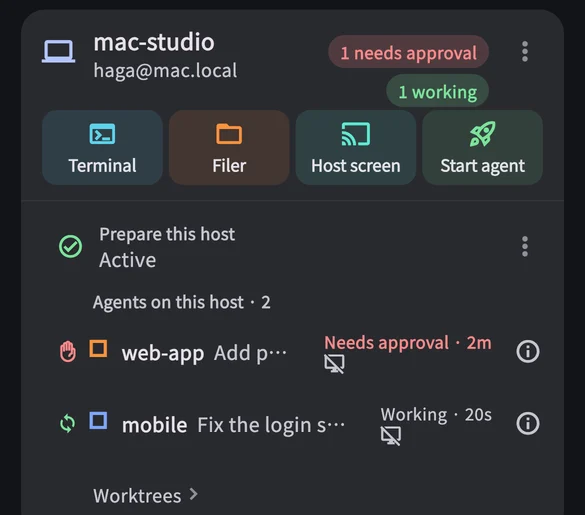
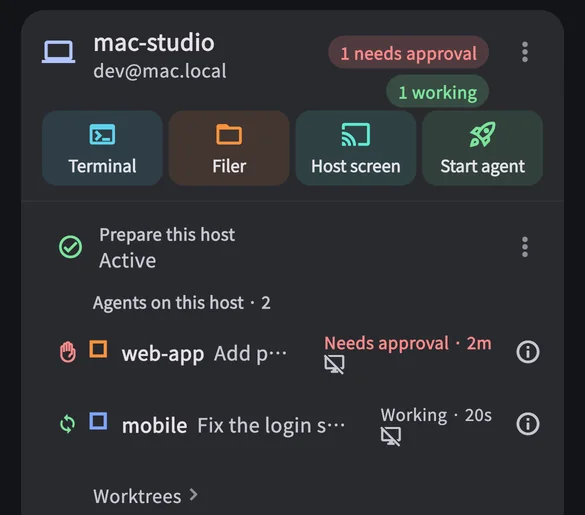
Desktop sales page: real SSH Term Desktop screens instead of HTML mock-ups (#25)
The Mac windows (hero, use case 01 list, use case 03 filer) are now the
app's own window, rendered offscreen with a fake stagent and a fake SSH
host (user dev, host build-linux), en and ja. Narrow screens get the
chat pane only, as the mock-up did. The phone host card is re-rendered
from the mobile store shots with the user dev instead of the real one.
The caption now says the screens are the apps' own with sample data.
Mock-up-only CSS removed.

diff --git a/public/ja/desktop.html b/public/ja/desktop.html
@@ -46,33 +46,14 @@
         <p class="cta-meta">macOS 13 以降（Apple Silicon / Intel） · スマホ版なしでも単体で利用可 · 続けるなら <b>¥1,500</b> 買い切り（月額 0 円）</p>
       </div>
 
-      <div class="devices" role="img" aria-label="Mac の SSH Term Desktop とスマホ版 SSH Term で、同じ Claude Code のセッションを開いているイメージ">
+      <div class="devices" role="img" aria-label="Mac の SSH Term Desktop とスマホ版 SSH Term で、同じ Claude Code のセッションを開いている画面">
         <div class="device-mac">
           <p class="device-label"><b>Mac</b> · SSH Term Desktop</p>
           <div class="mac">
-            <div class="mac-bar"><i></i><i></i><i></i><span>SSH Term Desktop</span><span class="mac-toast">通知: mobile が承認待ち</span></div>
-            <div class="mac-body">
-              <div class="mac-side">
-                <p class="mac-host">手元のマシン</p>
-                <p class="mac-row"><span class="dot wait"></span>mobile<small class="wait">承認待ち 2分</small></p>
-                <p class="mac-row is-on"><span class="dot run"></span>web-app<small>作業中</small></p>
-                <p class="mac-host">build-linux（SSH）</p>
-                <p class="mac-row"><span class="dot run"></span>infra<small>作業中</small></p>
-                <p class="mac-foot"><span>Claude 5時間</span><b>42%</b></p>
-              </div>
-              <div class="mac-pane">
-                <p class="box">✻ Welcome to Claude Code!<br><span class="dim">cwd: ~/dev/web-app</span></p>
-                <p>&gt; 決済 API のテストを書いて、通るまで直して</p>
-                <p>● 決済 API の構成を読みます。</p>
-                <p><span class="ok">●</span> Read(src/payment/api.ts)</p>
-                <p class="dim">  ⎿ Read 182 lines</p>
-                <p>● テストを 12 件書きました。実行します。</p>
-                <p><span class="ok">●</span> Write(test/payment/api.test.ts)</p>
-                <p><span class="ok">●</span> Bash(npm test -- payment)</p>
-                <p class="dim">  ⎿ Tests: 2 failed, 10 passed</p>
-                <p class="busy">✻ テストの失敗を直しています…</p>
-              </div>
-            </div>
+            <picture>
+              <source media="(max-width: 899px)" srcset="/desktop/img/mac-chat-pane-ja.webp" width="1284" height="1200">
+              <img src="/desktop/img/mac-chat-ja.webp" width="1440" height="900" alt="">
+            </picture>
           </div>
         </div>
         <p class="same" aria-hidden="true">↔ 同じセッション</p>
@@ -83,7 +64,7 @@
           </div>
         </div>
       </div>
-      <p class="shot-note">画面はイメージです（スマホの画面はスマホ版の実際の表示をもとに作成）。</p>
+      <p class="shot-note">画面はアプリの実際の表示です（データは見本）。</p>
     </div>
   </section>
 
@@ -330,16 +311,7 @@
             <span class="case-who">並列で AI を回すとき</span>
           </div>
           <figure class="case-media">
-            <div class="mac" role="img" aria-label="SSH Term Desktop の一覧。承認待ちの web-app が先頭に表示されているイメージ">
-              <div class="mac-bar"><i></i><i></i><i></i><span>SSH Term Desktop</span></div>
-              <div class="mac-side">
-                <p class="mac-host">mac-studio</p>
-                <p class="mac-row is-on"><span class="dot wait"></span>web-app<small class="wait">承認待ち 2分</small></p>
-                <p class="mac-row"><span class="dot run"></span>mobile<small>作業中</small></p>
-                <p class="mac-host">build-linux</p>
-                <p class="mac-row"><span class="dot run"></span>infra<small>作業中</small></p>
-              </div>
-            </div>
+            <img src="/desktop/img/mac-list-ja.webp" width="636" height="420" alt="SSH Term Desktop のステータス別の一覧。承認待ちの mobile が先頭に、作業中の web-app と infra がその下に並ぶ画面" loading="lazy">
           </figure>
           <h3 class="case-outcome">承認待ちで 30&nbsp;分止まる<wbr>事故が<wbr>なくなる</h3>
           <div class="case-ba">
@@ -369,16 +341,7 @@
             <span class="case-who">リモートサーバーの編集</span>
           </div>
           <figure class="case-media">
-            <div class="mac" role="img" aria-label="端末のファイルリンクから内蔵 SFTP ファイラとコードエディタを開くイメージ">
-              <div class="mac-bar"><i></i><i></i><i></i><span>build-linux · ファイラ</span></div>
-              <div class="mac-pane">
-                <p><span class="ok">●</span> Updated src/payment/api.ts:42</p>
-                <p class="dim">  → クリックで内蔵ファイラ＆エディタへ</p>
-                <p>&nbsp;</p>
-                <p class="box">src/payment/api.ts（SFTP · 保存可）<br><span class="ok">+ 42: return verifySignature(payload);</span></p>
-                <p class="dim">Cmd+S でリモートへそのまま保存</p>
-              </div>
-            </div>
+            <img src="/desktop/img/mac-filer-ja.webp" width="1284" height="544" alt="build-linux の内蔵ファイラで、src/payment/api.ts を SFTP でコードエディタに開き、42 行目を示した画面" loading="lazy">
           </figure>
           <h3 class="case-outcome">承認から<wbr>コード確認・微調整まで 1&nbsp;ウィンドウで<wbr>完結</h3>
           <div class="case-ba">

diff --git a/public/desktop.html b/public/desktop.html
@@ -50,29 +50,10 @@
         <div class="device-mac">
           <p class="device-label"><b>Mac</b> · SSH Term Desktop</p>
           <div class="mac">
-            <div class="mac-bar"><i></i><i></i><i></i><span>SSH Term Desktop</span><span class="mac-toast">Alert: mobile needs approval</span></div>
-            <div class="mac-body">
-              <div class="mac-side">
-                <p class="mac-host">Local machine</p>
-                <p class="mac-row"><span class="dot wait"></span>mobile<small class="wait">Approval · 2m</small></p>
-                <p class="mac-row is-on"><span class="dot run"></span>web-app<small>Working</small></p>
-                <p class="mac-host">build-linux (SSH)</p>
-                <p class="mac-row"><span class="dot run"></span>infra<small>Working</small></p>
-                <p class="mac-foot"><span>Claude 5h</span><b>42%</b></p>
-              </div>
-              <div class="mac-pane">
-                <p class="box">✻ Welcome to Claude Code!<br><span class="dim">cwd: ~/dev/web-app</span></p>
-                <p>&gt; Write tests for the payment API and fix it until they all pass</p>
-                <p>● I'll read how the payment API is laid out.</p>
-                <p><span class="ok">●</span> Read(src/payment/api.ts)</p>
-                <p class="dim">  ⎿ Read 182 lines</p>
-                <p>● Wrote 12 tests. Running them now.</p>
-                <p><span class="ok">●</span> Write(test/payment/api.test.ts)</p>
-                <p><span class="ok">●</span> Bash(npm test -- payment)</p>
-                <p class="dim">  ⎿ Tests: 2 failed, 10 passed</p>
-                <p class="busy">✻ Fixing the failing tests…</p>
-              </div>
-            </div>
+            <picture>
+              <source media="(max-width: 899px)" srcset="/desktop/img/mac-chat-pane-en.webp" width="1284" height="1200">
+              <img src="/desktop/img/mac-chat-en.webp" width="1440" height="900" alt="">
+            </picture>
           </div>
         </div>
         <p class="same" aria-hidden="true">↔ Same session</p>
@@ -83,7 +64,7 @@
           </div>
         </div>
       </div>
-      <p class="shot-note">Screens are illustrative (the phone screen is captured from the mobile app with sample data).</p>
+      <p class="shot-note">Screens are from the apps themselves, with sample data.</p>
     </div>
   </section>
 
@@ -330,16 +311,7 @@
             <span class="case-who">Parallel AI tasks</span>
           </div>
           <figure class="case-media">
-            <div class="mac" role="img" aria-label="SSH Term Desktop list showing web-app needing approval at the top while mobile and infra keep working">
-              <div class="mac-bar"><i></i><i></i><i></i><span>SSH Term Desktop</span></div>
-              <div class="mac-side">
-                <p class="mac-host">mac-studio</p>
-                <p class="mac-row is-on"><span class="dot wait"></span>web-app<small class="wait">Approval · 2m</small></p>
-                <p class="mac-row"><span class="dot run"></span>mobile<small>Working</small></p>
-                <p class="mac-host">build-linux</p>
-                <p class="mac-row"><span class="dot run"></span>infra<small>Working</small></p>
-              </div>
-            </div>
+            <img src="/desktop/img/mac-list-en.webp" width="636" height="420" alt="SSH Term Desktop list grouped by status: mobile needing approval at the top, web-app and infra working below" loading="lazy">
           </figure>
           <h3 class="case-outcome">Zero half-hour stalls waiting for approval</h3>
           <div class="case-ba">
@@ -369,16 +341,7 @@
             <span class="case-who">Reviewing remote edits</span>
           </div>
           <figure class="case-media">
-            <div class="mac" role="img" aria-label="Clicking a file link in the terminal to inspect and edit it in the built-in SFTP filer">
-              <div class="mac-bar"><i></i><i></i><i></i><span>build-linux · Filer</span></div>
-              <div class="mac-pane">
-                <p><span class="ok">●</span> Updated src/payment/api.ts:42</p>
-                <p class="dim">  → Click to open in built-in filer &amp; editor</p>
-                <p>&nbsp;</p>
-                <p class="box">src/payment/api.ts (SFTP · editable)<br><span class="ok">+ 42: return verifySignature(payload);</span></p>
-                <p class="dim">Cmd+S saves straight back over SFTP</p>
-              </div>
-            </div>
+            <img src="/desktop/img/mac-filer-en.webp" width="1284" height="544" alt="The built-in filer on build-linux with src/payment/api.ts open in the code editor over SFTP, line 42 highlighted" loading="lazy">
           </figure>
           <h3 class="case-outcome">Approve, inspect, and tweak in one window</h3>
           <div class="case-ba">

diff --git a/public/sales.css b/public/sales.css
@@ -320,74 +320,13 @@ h3 { font-size: 19px; line-height: 1.48; }
   border: 1px solid var(--term-edge);
   border-radius: 12px;
   background: var(--term);
-  color: var(--term-text);
-  font: 400 13px/1.6 var(--mono);
   box-shadow: 0 16px 40px rgb(0 0 0 / 0.35);
 }
-.mac-bar {
-  display: flex;
-  align-items: center;
-  gap: 8px;
-  height: 34px;
-  padding: 0 12px;
-  background: #171a23;
-  border-bottom: 1px solid var(--term-line);
-  color: var(--muted);
-  font: 600 12px/1 var(--sans);
-}
-.mac-bar i { width: 10px; height: 10px; border-radius: 50%; background: #454a57; }
-.mac-bar span { margin-left: 8px; }
-.mac-bar .mac-toast {
-  margin-left: auto;
-  padding: 3px 9px;
-  border-radius: 999px;
-  background: var(--warn-soft);
-  border: 1px solid rgb(240 122 106 / 0.4);
-  color: var(--warn);
-  font: 700 11px/1.2 var(--sans);
-  white-space: nowrap;
-}
-.mac-body {
-  display: grid;
-  grid-template-columns: 205px minmax(0, 1fr);
-  min-height: 320px;
-}
-.mac-side {
-  display: flex;
-  flex-direction: column;
-  padding: 12px 0;
-  background: #181c25;
-  border-right: 1px solid var(--term-line);
-  font-family: var(--sans);
-  font-size: 12px;
-  line-height: 1.45;
-}
-.mac-host { padding: 8px 14px 4px; color: var(--muted); font-weight: 700; font-size: 11px; letter-spacing: 0.03em; }
-.mac-row { display: flex; align-items: center; gap: 8px; padding: 7px 14px; }
-.mac-row small { margin-left: auto; color: var(--muted); font-size: 11px; white-space: nowrap; }
-.mac-row small.wait { color: var(--warn); font-weight: 700; }
-.mac-row.is-on { background: #262c3a; box-shadow: inset 3px 0 0 var(--accent); color: var(--text); font-weight: 700; }
-.mac-foot {
-  margin-top: auto;
-  padding: 10px 14px 2px;
-  border-top: 1px solid var(--term-line);
-  color: var(--muted);
-  font: 600 11px/1.5 var(--mono);
-  display: flex;
-  justify-content: space-between;
-}
-.mac-foot b { color: var(--accent); }
+.mac img { width: 100%; }
 
 .dot { flex: none; display: inline-block; width: 8px; height: 8px; border-radius: 2px; background: var(--blue); }
 .dot.wait { background: var(--warn); }
 .dot.run { background: var(--run); }
-
-.mac-pane { padding: 16px 20px; overflow: hidden; }
-.mac-pane p { white-space: pre; overflow: hidden; text-overflow: ellipsis; }
-.mac-pane .box { margin-bottom: 10px; padding: 6px 10px; border: 1px solid #d97a45; border-radius: 6px; white-space: normal; }
-.mac-pane .ok { color: var(--run); }
-.mac-pane .dim { color: var(--muted); }
-.mac-pane .busy { color: #e8935a; }
 
 .devices {
   display: grid;
@@ -396,8 +335,7 @@ h3 { font-size: 19px; line-height: 1.48; }
   gap: 18px;
   margin-top: 52px;
 }
-.device-mac .mac { border-bottom: 0; border-radius: 12px 12px 0 0; font-size: 13.5px; }
-.device-mac .mac-body { min-height: 460px; }
+.device-mac .mac { border-bottom: 0; border-radius: 12px 12px 0 0; }
 .device-phone .phone { max-width: 240px; border-bottom: 0; border-radius: 40px 40px 0 0; padding-bottom: 0; }
 .device-phone .phone img { border-radius: 30px 30px 0 0; }
 .same {
@@ -412,10 +350,6 @@ h3 { font-size: 19px; line-height: 1.48; }
 @media (max-width: 899px) {
   .devices { grid-template-columns: minmax(0, 1fr) 150px; gap: 12px; }
   .same { display: none; }
-  .device-mac .mac { font-size: 11px; }
-  .device-mac .mac-body { grid-template-columns: 1fr; min-height: 300px; }
-  .device-mac .mac-side { display: none; }
-  .device-mac .mac-pane { padding: 12px 14px; }
   .device-phone .phone { padding: 6px 6px 0; border-radius: 24px 24px 0 0; }
   .device-phone .phone img { border-radius: 19px 19px 0 0; }
 }
@@ -425,8 +359,6 @@ h3 { font-size: 19px; line-height: 1.48; }
   .device-mac { width: 100%; }
   .device-phone { width: 58%; margin-top: -155px; }
   .device-phone .device-label { display: none; }
-  .device-mac .mac-body { min-height: 270px; }
-  .mac-bar .mac-toast { display: none; }
 }
 
 /* ---------- WHAT IS IT (4 Pillars) ---------- */
@@ -876,15 +808,6 @@ h3 { font-size: 19px; line-height: 1.48; }
   height: 220px;
   object-fit: cover;
   object-position: top;
-}
-.case-media .mac {
-  border: 0;
-  border-radius: 0;
-  box-shadow: none;
-}
-.case-media .mac-side {
-  border-right: 0;
-  min-height: 186px;
 }
 .case-outcome {
   margin-bottom: 14px;

diff --git a/README.md b/README.md
@@ -243,10 +243,14 @@ separate from the mobile app), FAQ, closing
 CTA, and a floating trial button on narrow screens.
 
 Plain HTML with no script, on their own `sales.css` (the app's dark terminal
-ground, one mint for every button). The phone screens in `desktop/img/` are
-the mobile app's store shots (its own widgets drawn with made-up data, in
-each language); the Mac window is drawn in HTML and the page says the screens
-are illustrative. Refunds are asked for through the contact page. Japanese
+ground, one mint for every button). The screens in `desktop/img/` are real
+UI with made-up data, in each language: the phone ones are the mobile app's
+store shots (its own widgets; the host card rendered with the user `dev`);
+the Mac ones (`mac-*.webp`: the whole window,
+its chat pane for narrow screens, the status list, the filer) are SSH Term
+Desktop's own window rendered offscreen with a fake stagent and a fake SSH
+host (user `dev`, host `build-linux`), so no real host or path shows. Refunds
+are asked for through the contact page. Japanese
 headings, buttons and case labels break only at spaces, punctuation and the
 `<wbr>` between phrases (`word-break: keep-all`; `auto-phrase` is
 Chrome-only), so a new or reworded heading needs its own `<wbr>`s, and
